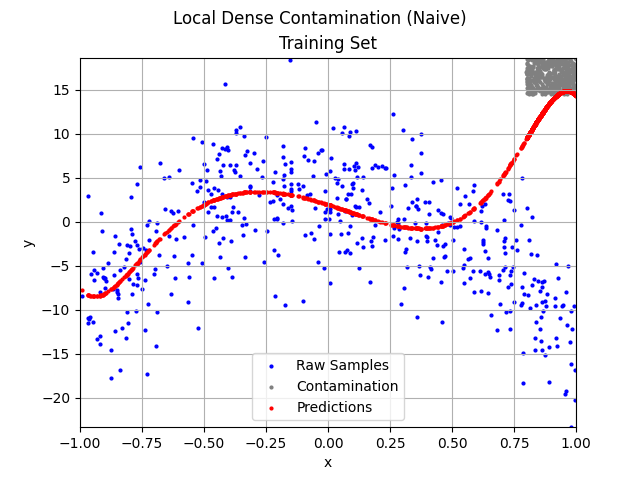
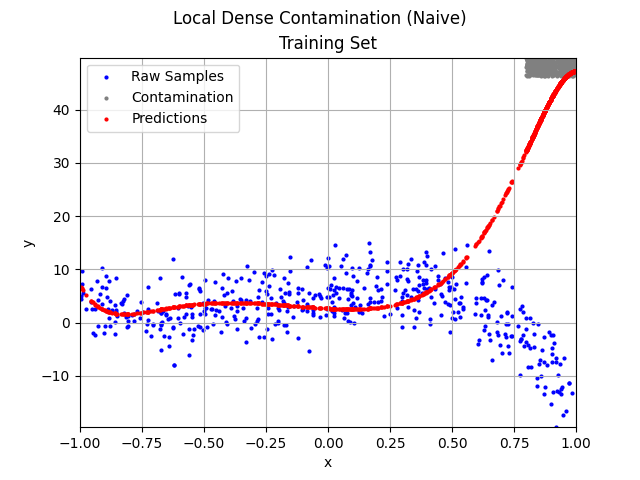
testing space adjustment

diff --git a/tests/random_contamination.py b/tests/random_contamination.py
@@ -12,8 +12,8 @@ x_training, y_training = generate_random_samples(w, 1, training_size)
 contamination_size = ceil(epsilon * training_size)
 contamination_indices = rng.choice(training_size, contamination_size, False)
 x_contamination = rng.uniform(-1, 1, contamination_size)
-y_contamination = rng.uniform(
-    y_training.min(), y_training.max(), contamination_size)
+y_contamination = rng.uniform((y_training.max() - y_training.min()) *
+                              (-0.5), (y_training.max() - y_training.min()) * 1.5, contamination_size)
 x_training[contamination_indices] = x_contamination
 y_training[contamination_indices] = y_contamination
 

diff --git a/tests/local_dense_contamination.py b/tests/local_dense_contamination.py
@@ -12,8 +12,8 @@ x_training, y_training = generate_random_samples(w, 1, training_size)
 contamination_size = ceil(epsilon * training_size)
 contamination_indices = rng.choice(training_size, contamination_size, False)
 x_contamination = rng.uniform(0.8, 1, contamination_size)
-y_contamination = rng.uniform(y_training.max(
-) * 0.9 + y_training.min() * 0.1, y_training.max(), contamination_size)
+y_contamination = rng.uniform(
+    y_training.min(), y_training.max() * 2 + y_training.min(), contamination_size)
 x_training[contamination_indices] = x_contamination
 y_training[contamination_indices] = y_contamination
 
